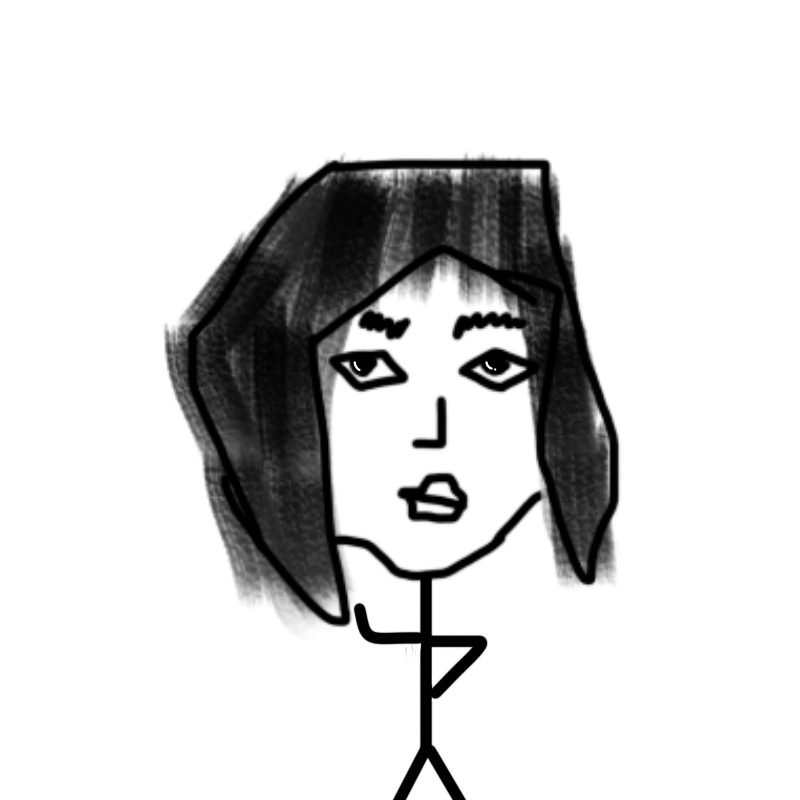
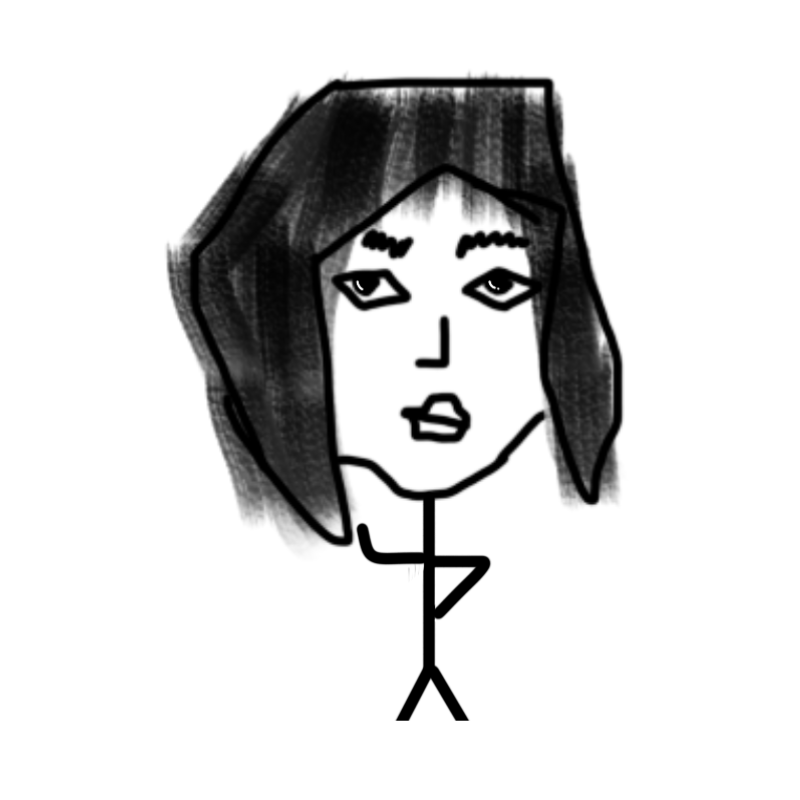
Double Firebeet size and register new Yanagi sketch

Changed region(s): [[0.1875, 0.0938, 0.7812, 1.0]]

diff --git a/client/src/components/SiteLayout.tsx b/client/src/components/SiteLayout.tsx
@@ -159,7 +159,7 @@ export default function SiteLayout({ children }: { children: ReactNode }) {
     <PublishedAssetsContext.Provider value={assetsByFilename}>
       <div className="page">
         {fontRules && <style>{fontRules}</style>}
-        <style>{`.inline-art { max-width: 150px; height: auto; display: inline-block; margin: 10px; vertical-align: middle; }`}</style>
+        <style>{`.inline-art { max-width: 150px; height: auto; display: inline-block; margin: 10px; vertical-align: middle;  .firebeet-art { max-width: 300px !important; }`}</style>
         <header className="site-header">
           <Link href="/" aria-label={`${siteContent.title} home`}>
             </Link>

diff --git a/client/src/pages/Home.tsx b/client/src/pages/Home.tsx
@@ -16,7 +16,7 @@ export default function Home() {
           </div>
           <p>{siteContent.home.introMiddle}:</p>
           <div style={{ textAlign: "center", margin: "1.5rem 0" }}>
-            <Asset asset={siteContent.home.firebeetSketch} alt="Cute sketch of Firebeet" className="inline-art" />
+            <Asset asset={siteContent.home.firebeetSketch} alt="Cute sketch of Firebeet" className="inline-art firebeet-art" />
           </div>
         </div>
         <blockquote>{siteContent.home.verse}</blockquote>
